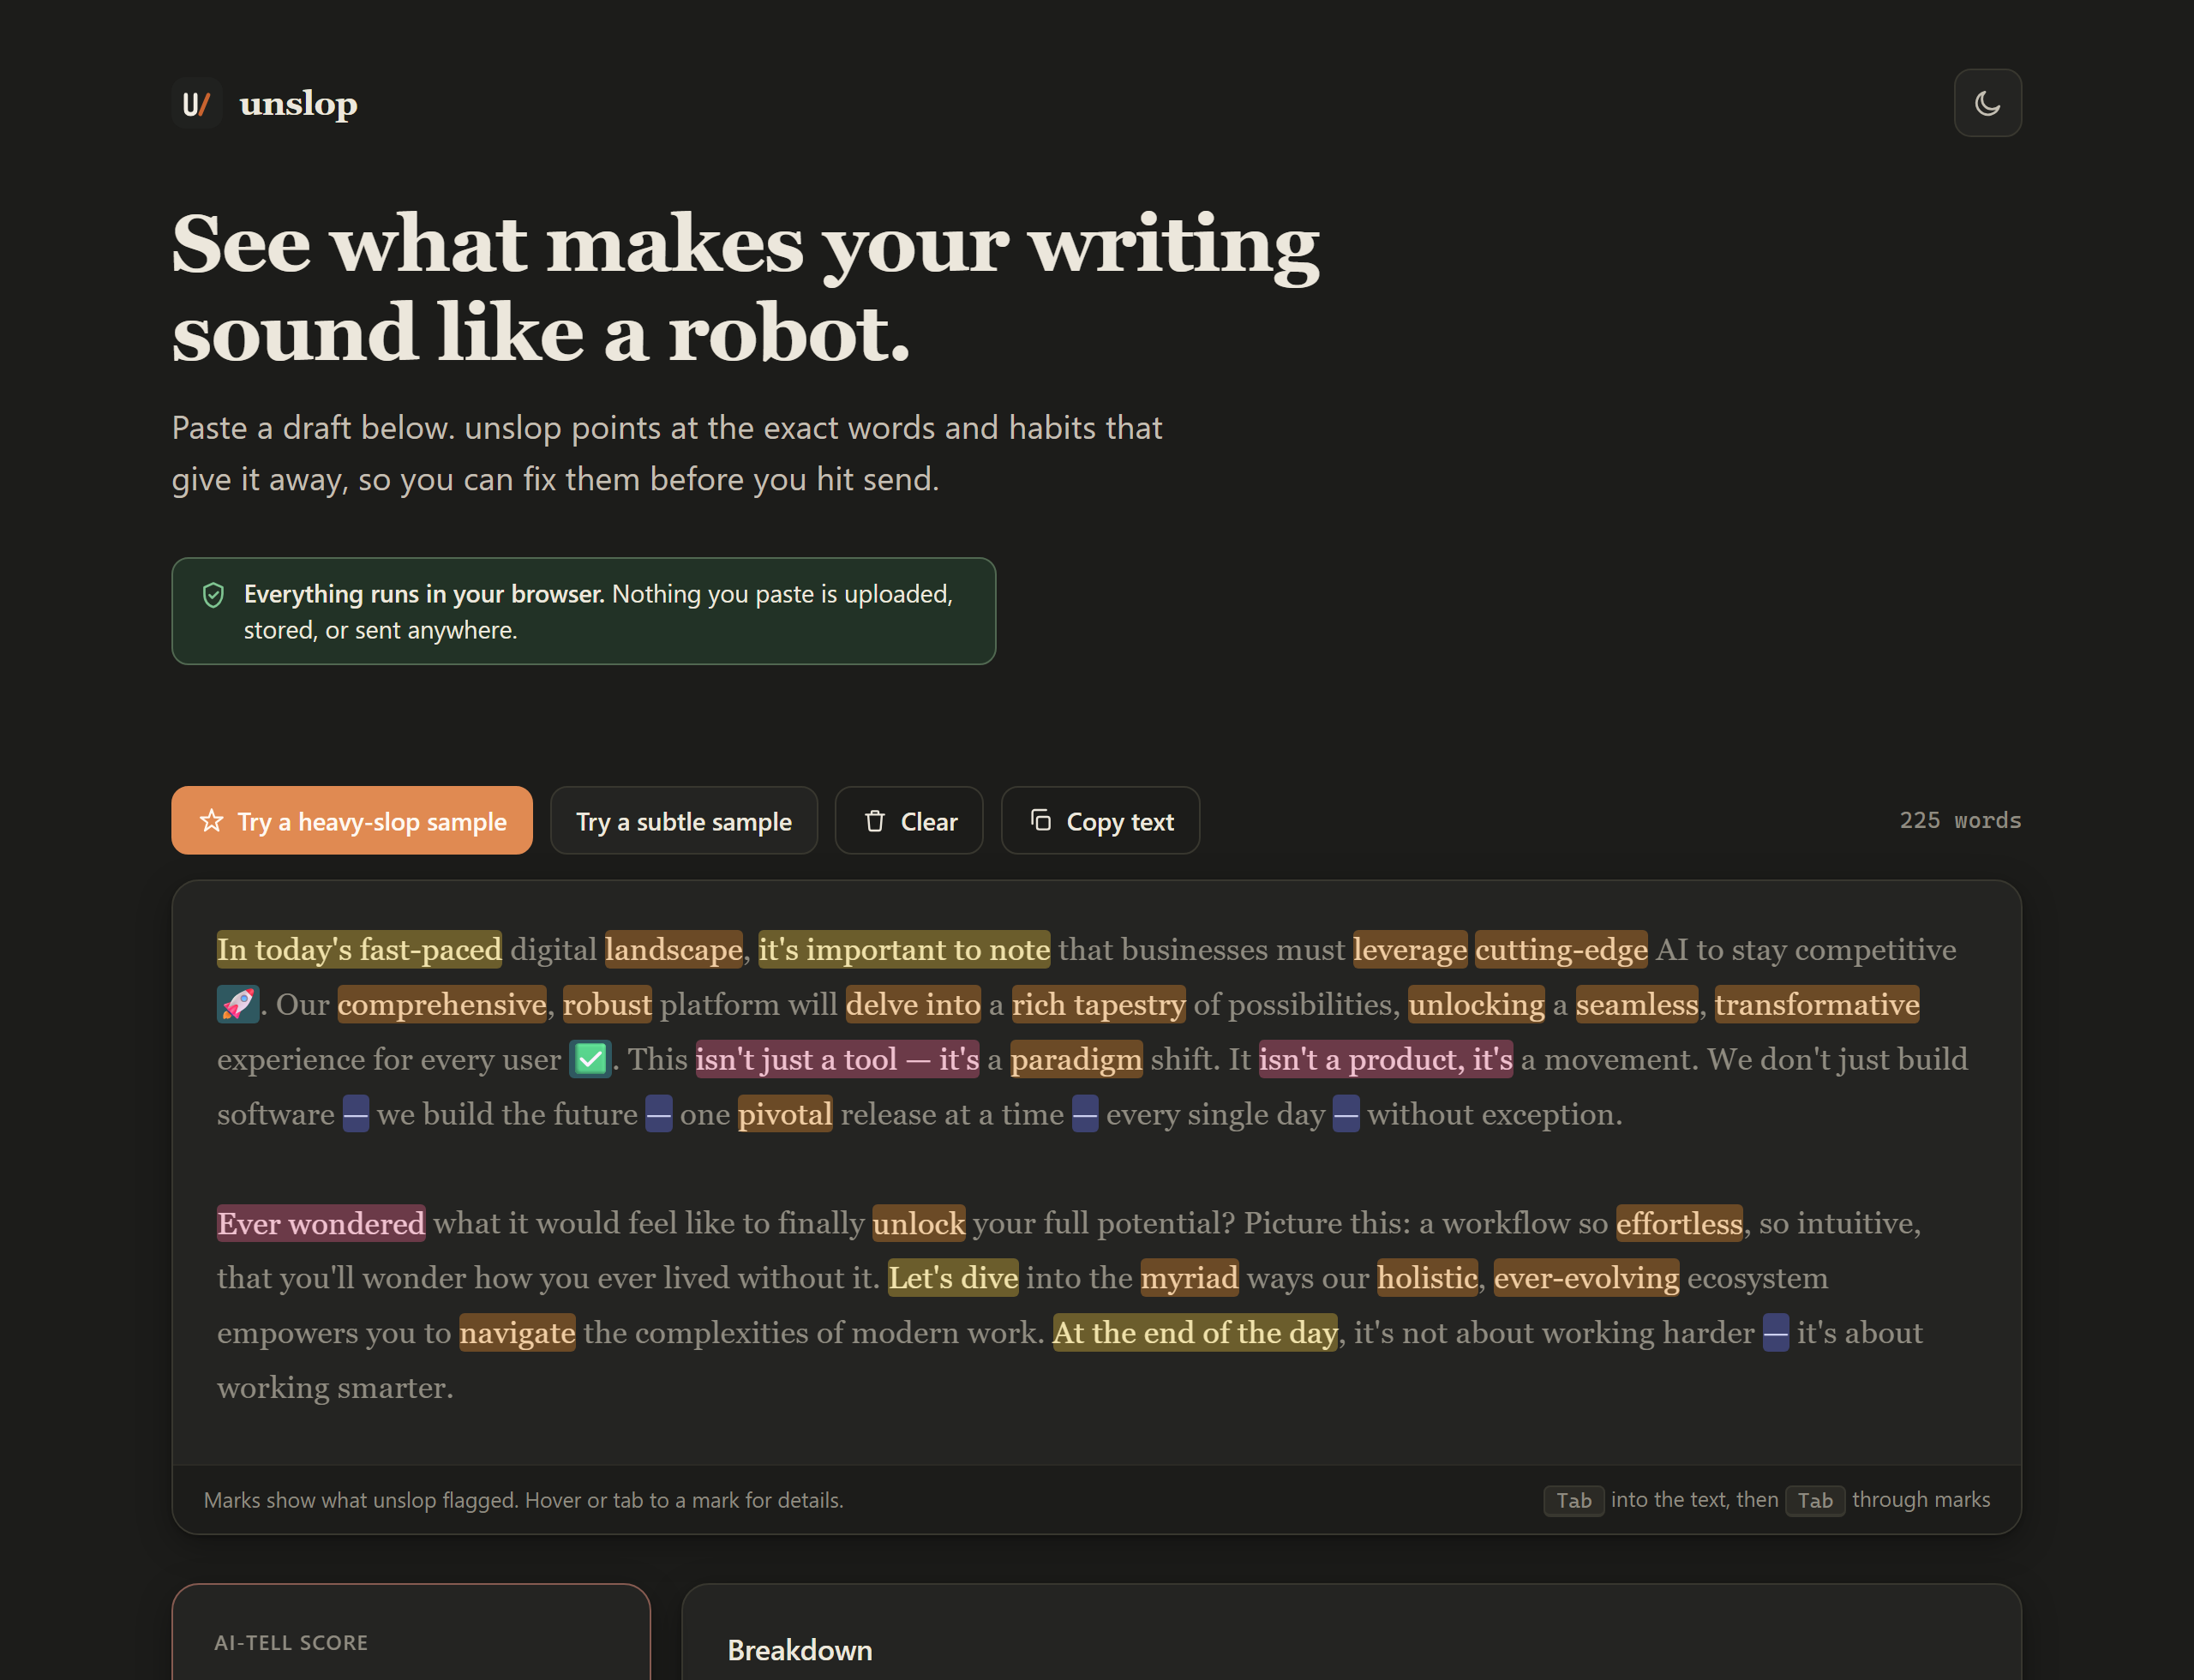
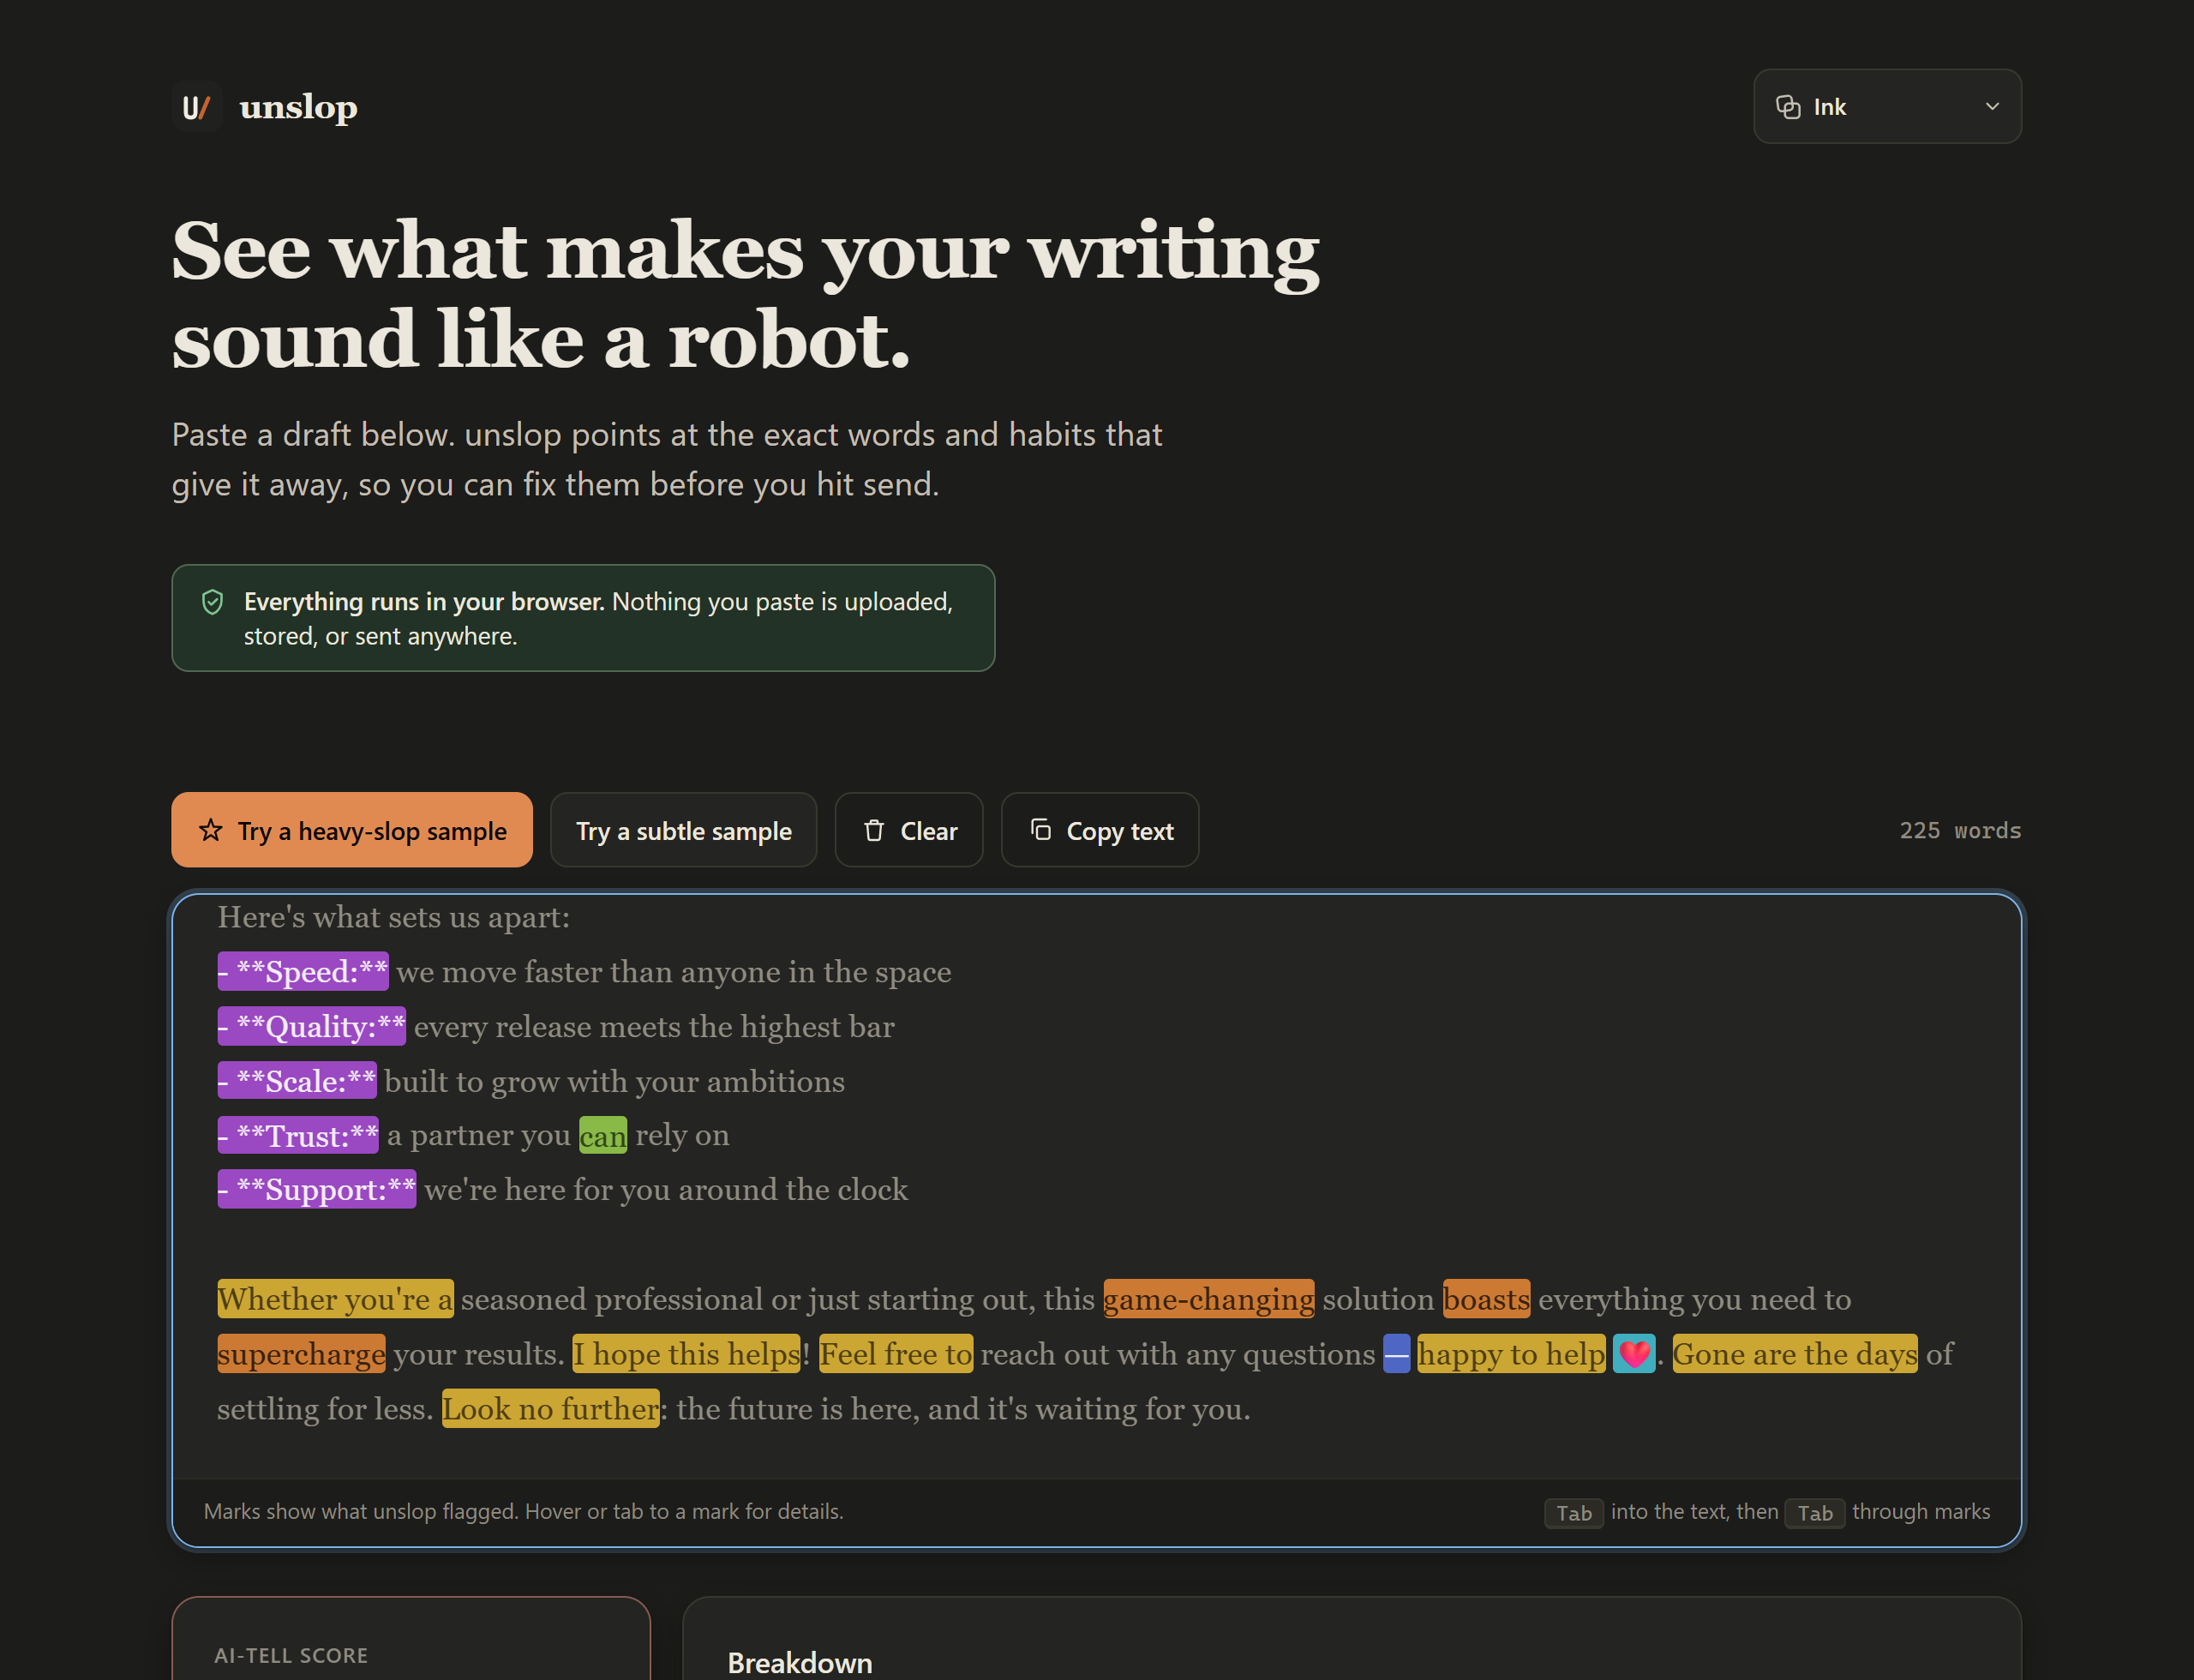
Refresh the dark hero screenshot, mention the theme picker in the README
app-dark.png still showed the old single-icon toggle.

diff --git a/README.md b/README.md
@@ -33,6 +33,8 @@ Either way, the agent gets [SKILL.md](skills/unslop/SKILL.md): what to run, how 
 
 [munzzyy.github.io/unslop](https://munzzyy.github.io/unslop/) is the whole tool as a single page. Paste or type, and every buzzword, filler phrase, construction, stray em dash, and emoji gets underlined in place, with a live score and a breakdown of exactly what tripped it. No build step, no account, no server: the page loads the same scorer the CLI uses and runs it on your machine. You can save the page and use it offline.
 
+Nine themes from the header - Paper and Ink, plus Terminal, Sepia, Newsprint, Midnight, both Solarized variants, and a high-contrast mode. Auto follows your system by default; your pick is remembered and applied before the page paints.
+
 [![the light theme, showing the score and the per-finding breakdown](docs/media/app-full-light.png)](https://munzzyy.github.io/unslop/)
 
 > Looking for a package literally named `unslop` on PyPI or npm? Those are different projects - an LLM-based rewriter and an old code-quality tool. This one's git-only for now; see [Install](#install).